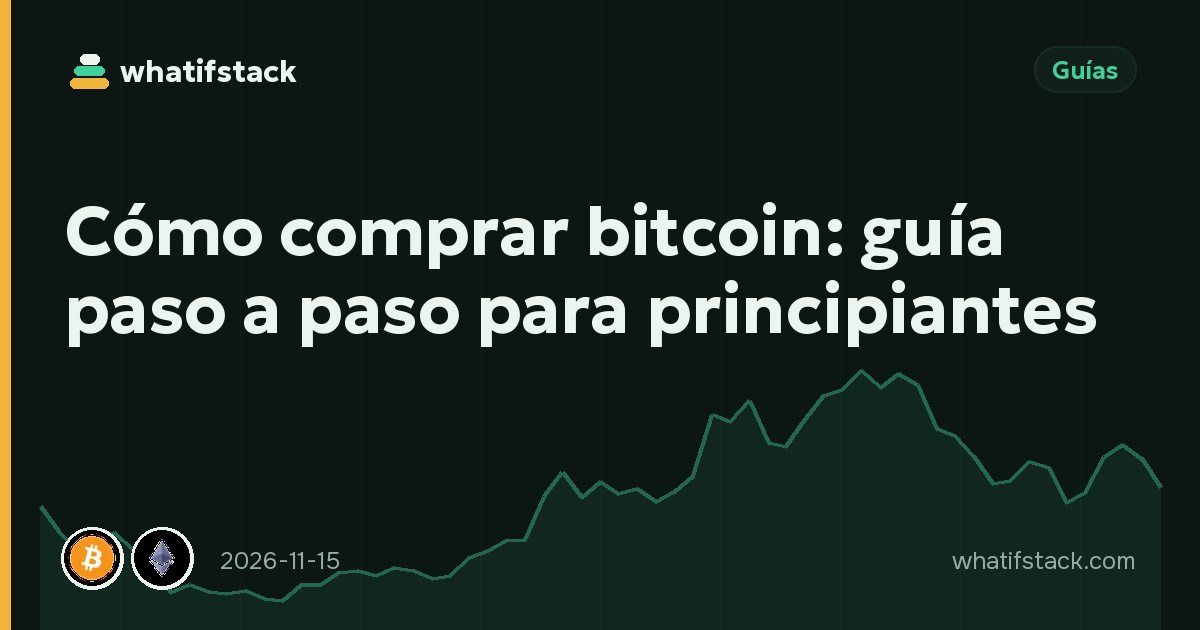
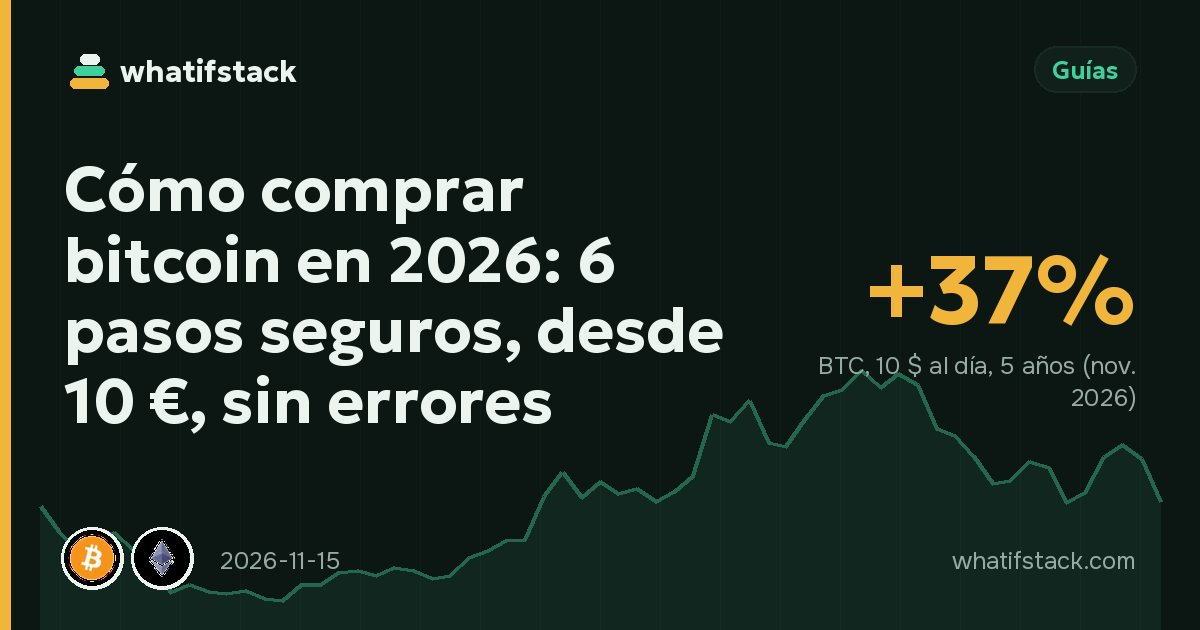
Search demand: improve how to buy bitcoin (es, fr, pt)

Changed region(s): [[0.0308, 0.2413, 0.9558, 0.6937], [0.9558, 0.754, 0.9867, 0.7841]]

diff --git a/content/blog/fr/how-to-buy-bitcoin.md b/content/blog/fr/how-to-buy-bitcoin.md
@@ -1,13 +1,20 @@
 ---
-title: Comment acheter du Bitcoin : guide étape par étape pour débutants
-description: Comment acheter du Bitcoin en 6 étapes : choisir une plateforme régulée, vérifier son compte, déposer, acheter, programmer des achats DCA et sécuriser ses BTC.
+title: Comment acheter du Bitcoin en 2026 : 6 étapes sûres, dès 10 € (débutant)
+description: Comment acheter du Bitcoin en 2026 : plateforme agréée MiCA, vérification, dépôt, achat dès 10 €, achats programmés et sécurité. Guide débutant.
 date: 2026-11-15
 category: guides
 assets: btc, eth
+stat: +37 %
+stat_label: BTC, 10 $ par jour, 5 ans (nov. 2026)
 ---
-**Comment acheter du Bitcoin ?** Aujourd'hui, cela ne prend pas beaucoup plus de temps que d'ouvrir une appli bancaire. Le plus dur n'est pas le bouton « Acheter », mais de choisir un endroit sûr, de ne pas payer trop de frais et de ne pas paniquer la première fois que le cours chute de 20 %.
+**Comment acheter du Bitcoin ?** Ouvrez un compte sur une plateforme agréée dans votre pays, vérifiez votre identité, déposez des euros et achetez le montant que vous voulez : inutile d'acheter un bitcoin entier, on peut commencer avec environ 10 €. Le tout prend de 15 minutes à une journée ; l'essentiel est de choisir un endroit sûr, de payer peu de frais et de bien protéger vos BTC ensuite.
 
-Ce guide vous explique tout le processus avec des mots simples. Un bitcoin coûte en ce moment {{price:btc}}, mais vous n'avez pas besoin d'en acheter un entier : presque toutes les plateformes permettent d'acheter une petite fraction, souvent dès 10 €.
+Un bitcoin coûte en ce moment {{price:btc}}. Voici les 6 étapes pour acheter des bitcoins quand on est débutant, combien cela coûte vraiment, où acheter du BTC en France sans se faire arnaquer, et ce qu'a donné un petit achat chaque jour.
+
+> **À retenir**
+> - Pour acheter du Bitcoin, il suffit d'une plateforme agréée, d'une pièce d'identité et d'environ 10 € : on achète des fractions de BTC (jusqu'à 8 décimales).
+> - Depuis juillet 2026, seuls les prestataires agréés MiCA (PSCA) peuvent servir les clients dans l'UE ; en France, c'est l'AMF qui publie les listes.
+> - 10 $ par jour en Bitcoin pendant 5 ans : **{{dca:btc:5}}** pour **{{dcainv:5}}** investis ({{dcaroi:btc:5}}), avec des baisses de plus de 50 % en route.
 
 ## Étape 1. Choisir une plateforme régulée dans votre pays
 
@@ -81,6 +88,24 @@ Ces règles de base évitent la plupart des pertes :
 
 « Not your keys, not your coins » (pas vos clés, pas vos bitcoins), dit-on souvent : si une plateforme fait faillite, les coins qui y sont stockés peuvent être bloqués. L'auto-conservation supprime ce risque mais en ajoute un autre — si vous perdez la phrase de récupération, personne ne peut restaurer l'accès.
 
+## Ce que cela signifie si vous achetez régulièrement
+
+Acheter le même montant chaque jour, semaine ou mois lisse le prix d'entrée, mais ne supprime pas le risque. Avec 10 $ par jour en Bitcoin, tout dépend de la durée :
+
+- **1 an :** {{dca:btc:1}} pour {{dcainv:1}} investis ({{dcaroi:btc:1}}).
+- **3 ans :** {{dcaroi:btc:3}}.
+- **5 ans :** {{dca:btc:5}} pour {{dcainv:5}} investis ({{dcaroi:btc:5}}).
+
+Sur une courte période, un plan régulier peut rester dans le rouge pendant des mois ; sur longue période, l'historique a été meilleur, mais le passé ne garantit rien. Beaucoup d'acheteurs réguliers fixent un montant qui ne les gêne pas et le maintiennent aussi pendant les baisses.
+
+## Combien coûte un bitcoin (et une fraction de bitcoin)
+
+Un bitcoin entier vaut {{price:btc}}, mais il se divise en 100 millions d'unités (les satoshis) : avec 10 €, vous achetez une petite fraction de BTC. Au prix s'ajoutent les frais : commission de transaction (souvent 0,1 à 0,5 % en mode « spot »), spread de l'écran simple « Acheter » et, par carte, 1 à 4 % de plus. Pour de petits achats fréquents, le virement SEPA revient généralement moins cher. Convertissez n'importe quel montant avec notre [convertisseur BTC–EUR]({lang}/converter/btc-eur/).
+
+## Où acheter du Bitcoin en France sans se faire arnaquer
+
+Avant d'ouvrir un compte, vérifiez que la plateforme figure sur les listes de l'AMF (prestataires agréés MiCA) et pas sur sa liste noire des sites non autorisés. Une plateforme agréée dans un autre pays de l'UE peut opérer en France grâce au passeport européen. Méfiez-vous de quiconque vous contacte en premier pour « vous aider à investir », des rendements « garantis » et des sites qui demandent de « payer des frais » pour débloquer un retrait : ce sont des arnaques classiques, détaillées dans notre guide [éviter les arnaques crypto]({lang}/blog/how-to-avoid-crypto-scams/). Pour comparer les plateformes, consultez notre [classement des plateformes crypto]({lang}/crypto-exchanges/).
+
 ## Impôts et justificatifs
 
 Dans de nombreux pays, vendre ou échanger du Bitcoin est un événement imposable. En France, par exemple, les plus-values sur crypto-actifs se déclarent chaque année. Téléchargez votre historique de transactions une fois par an et consultez les règles de votre administration fiscale. Garder vos justificatifs dès le premier jour vous évitera bien des soucis.
@@ -110,8 +135,19 @@ Les plateformes régulées doivent vérifier votre identité selon la loi. Celle
 
 Personne ne peut prédire les prix à court terme. C'est pourquoi beaucoup de débutants préfèrent des achats réguliers d'un montant fixe (DCA) plutôt que d'essayer de deviner le bon moment.
 
+## Suivre tout cela sur WhatIfStack
+
+- Suivez le cours du Bitcoin en direct, son graphique et le calculateur de rendement sur la [page Bitcoin]({lang}/btc/) : testez n'importe quel montant et durée.
+- Ajoutez le BTC à votre liste de suivi ou notez vos achats dans [Mon WhatIfStack]({lang}/me/) : gratuit, sans inscription, enregistré dans votre navigateur.
+- Comparez le Bitcoin à l'or, au S&P 500 ou à l'Ethereum avec [Comparer]({lang}/compare/).
+- Choisissez une plateforme grâce au [classement des plateformes crypto]({lang}/crypto-exchanges/) (volumes, paires, preuve de réserves).
+- Suivez ce qui fait bouger le marché dans nos [actualités]({lang}/news/).
+
+Ajoutez whatifstack.com à vos favoris (Ctrl+D, ou « Ajouter à l'écran d'accueil » sur mobile) et suivez [notre chaîne Telegram](https://t.me/WhatIfStack) pour le point marché quotidien.
+
 ## Sources
 
+- [AMF — Investir en crypto-monnaies : quel professionnel choisir ?](https://www.amf-france.org/fr/espace-epargnants/proteger-son-epargne/crypto-actifs-bitcoin-etc/investir-en-crypto-monnaies-quel-professionnel-choisir)
 - [ESMA — Markets in Crypto-Assets Regulation (MiCA)](https://www.esma.europa.eu/esmas-activities/digital-finance-and-innovation/markets-crypto-assets-regulation-mica)
 - [FCA — Cryptoassets: our work](https://www.fca.org.uk/firms/cryptoassets)
 - [Investor.gov — Crypto asset investing alerts](https://www.investor.gov/introduction-investing/general-resources/news-alerts/alerts-bulletins/investor-alerts/investor-alert-watch-out-fraudulent-digital-asset-and-crypto-trading-websites)

diff --git a/content/blog/es/how-to-buy-bitcoin.md b/content/blog/es/how-to-buy-bitcoin.md
@@ -1,13 +1,20 @@
 ---
-title: Cómo comprar bitcoin: guía paso a paso para principiantes
-description: Cómo comprar bitcoin de forma segura en 6 pasos: elige un exchange regulado, verifica tu cuenta, deposita, compra, programa compras DCA y protege tus monedas.
+title: Cómo comprar bitcoin en 2026: 6 pasos seguros, desde 10 €, sin errores
+description: Cómo comprar bitcoin paso a paso en 2026: exchange regulado, verificación, depósito, compra desde 10 €, compras periódicas y seguridad.
 date: 2026-11-15
 category: guides
 assets: btc, eth
+stat: +37%
+stat_label: BTC, 10 $ al día, 5 años (nov. 2026)
 ---
-Hoy, **comprar bitcoin** lleva más o menos lo mismo que abrir la app del banco. Lo difícil no es pulsar el botón: es elegir un sitio seguro, no pagar comisiones de más y no entrar en pánico la primera vez que el precio cae un 20%.
+**¿Cómo comprar bitcoin?** Abre una cuenta en un exchange regulado en tu país, verifica tu identidad, deposita euros (o tu moneda local) y compra la cantidad que quieras: no hace falta un bitcoin entero, se puede empezar con unos 10 €. Todo lleva entre 15 minutos y un día; lo que de verdad importa es elegir un sitio seguro, pagar pocas comisiones y proteger tus monedas después.
 
-En esta guía te explicamos cómo comprar bitcoin paso a paso y en lenguaje sencillo. Ahora mismo un bitcoin cuesta {{price:btc}}, pero no necesitas comprar una moneda entera: casi todos los exchanges te dejan comprar una pequeña parte, a menudo desde 10 € o 10 $.
+Ahora mismo un bitcoin cuesta {{price:btc}}. Abajo tienes los 6 pasos para comprar bitcoins, cuánto cuesta realmente, cómo hacerlo de forma segura y qué le pasó a quien compró un poco cada día.
+
+> **Claves**
+> - Para comprar bitcoin solo necesitas un exchange regulado, tu DNI y unos 10 €: compras fracciones de BTC con hasta 8 decimales.
+> - Desde julio de 2026, en la UE solo pueden operar proveedores con licencia MiCA; en España la autoridad es la CNMV.
+> - 10 $ al día en bitcoin durante 5 años: **{{dca:btc:5}}** a partir de **{{dcainv:5}}** ({{dcaroi:btc:5}}), con caídas de más del 50% por el camino.
 
 ## Paso 1. Elige un exchange regulado en tu país
 
@@ -81,6 +88,28 @@ Lo básico de seguridad que evita la mayoría de pérdidas:
 
 "Not your keys, not your coins" ("si no son tus claves, no son tus monedas") es un dicho popular: si un exchange quiebra, las monedas que tengas allí pueden quedar congeladas. La autocustodia elimina ese riesgo pero añade otro: si pierdes la frase de recuperación, nadie puede devolverte el acceso.
 
+## Qué significa si compras de forma regular
+
+Comprar la misma cantidad cada día, semana o mes reparte el precio de entrada, pero no elimina el riesgo. Con 10 $ al día en bitcoin, el resultado depende mucho del plazo:
+
+- **1 año:** {{dca:btc:1}} a partir de {{dcainv:1}} ({{dcaroi:btc:1}}).
+- **3 años:** {{dcaroi:btc:3}}.
+- **5 años:** {{dca:btc:5}} a partir de {{dcainv:5}} ({{dcaroi:btc:5}}).
+
+Es decir: en plazos cortos un plan periódico puede estar en pérdidas durante meses, y en plazos largos el historial ha sido mejor, pero el pasado no es una promesa. Muchos compradores regulares fijan una cantidad que no les duela y la mantienen también en las caídas.
+
+## Cuánto cuesta comprar 1 bitcoin (y una fracción)
+
+Un bitcoin entero cuesta {{price:btc}}, pero se divide en 100 millones de unidades (satoshis), así que con 10 € compras una pequeña fracción de BTC. Al precio hay que sumar el coste de compra: la comisión de trading (en el modo *spot* suele rondar el 0,1–0,5%), el *spread* de la pantalla sencilla de "Comprar" y, si pagas con tarjeta, un 1–4% extra. Para compras pequeñas y frecuentes, una transferencia SEPA o en tu moneda local suele salir más barata. Puedes convertir cualquier cantidad con nuestro [conversor BTC–EUR]({lang}/converter/btc-eur/).
+
+## Cómo comprar bitcoin de forma segura
+
+La mayoría de pérdidas no vienen del precio sino de estafas y descuidos. Cinco reglas: compra solo en plataformas que aparezcan en el registro del regulador (CNMV en España); nunca inviertas por consejo de alguien que te escribió primero; activa 2FA con app; no compartas jamás la frase de recuperación; y desconfía de rentabilidades "garantizadas". Si un exchange no te deja retirar y te pide "pagar impuestos" para liberar el dinero, es una estafa: lo explicamos en [cómo evitar estafas cripto]({lang}/blog/how-to-avoid-crypto-scams/).
+
+## Dónde comprar bitcoin en España y Latinoamérica
+
+En España, busca un proveedor con licencia MiCA (puede estar autorizado en otro país de la UE y operar aquí con pasaporte europeo) y compruébalo en el registro de la CNMV o de la ESMA. En México, Argentina, Colombia o Chile, las reglas cambian por país: revisa siempre la web del regulador local. En nuestra [página de exchanges]({lang}/exchanges/) y en el [ranking de exchanges cripto]({lang}/crypto-exchanges/) comparas comisiones, volumen y reservas.
+
 ## Impuestos y registros
 
 En muchos países, vender o intercambiar bitcoin tributa (en España, por ejemplo, las ganancias se declaran en el IRPF). Descarga una vez al año el historial de operaciones del exchange y consulta las reglas de tu agencia tributaria. Llevar registros desde el primer día te ahorra muchos dolores de cabeza.
@@ -110,8 +139,19 @@ Los exchanges regulados exigen verificar tu identidad por ley. Las plataformas q
 
 Nadie puede predecir el precio a corto plazo. Por eso muchos principiantes hacen compras periódicas y fijas (DCA) en lugar de intentar acertar el momento.
 
+## Cómo seguirlo en WhatIfStack
+
+- Mira el precio de bitcoin en vivo, el gráfico y la calculadora de rentabilidad en la [página de bitcoin]({lang}/btc/): prueba cualquier importe y plazo.
+- Añade BTC a tu lista de seguimiento o registra tus compras en [Mi WhatIfStack]({lang}/me/): gratis, sin registro y guardado en tu navegador.
+- Compara bitcoin con el oro, el S&P 500 o ethereum en [Comparar]({lang}/compare/).
+- Elige plataforma con el [ranking de exchanges cripto]({lang}/crypto-exchanges/) (volumen, pares y prueba de reservas).
+- Sigue lo que mueve el mercado en nuestras [noticias]({lang}/news/).
+
+Guarda whatifstack.com en favoritos (Ctrl+D, o «Añadir a pantalla de inicio» en el móvil) y sigue [nuestro canal de Telegram](https://t.me/WhatIfStack) para el resumen diario del mercado.
+
 ## Fuentes
 
+- [CNMV — Criptoactivos](https://www.cnmv.es/portal/criptoactivos)
 - [ESMA — Reglamento de Mercados de Criptoactivos (MiCA)](https://www.esma.europa.eu/esmas-activities/digital-finance-and-innovation/markets-crypto-assets-regulation-mica)
 - [FCA — Cryptoassets: our work](https://www.fca.org.uk/firms/cryptoassets)
 - [Investor.gov — Alertas sobre inversión en criptoactivos](https://www.investor.gov/introduction-investing/general-resources/news-alerts/alerts-bulletins/investor-alerts/investor-alert-watch-out-fraudulent-digital-asset-and-crypto-trading-websites)

diff --git a/content/blog/pt/how-to-buy-bitcoin.md b/content/blog/pt/how-to-buy-bitcoin.md
@@ -1,13 +1,20 @@
 ---
-title: Como comprar bitcoin: guia passo a passo para iniciantes
-description: Como comprar bitcoin com segurança em 6 passos: escolha uma corretora regulada, verifique a conta, deposite, compre, programe compras DCA e proteja as moedas.
+title: Como comprar bitcoin em 2026: 6 passos seguros, a partir de R$ 50
+description: Como comprar bitcoin passo a passo em 2026: corretora autorizada, verificação, Pix, compra a partir de R$ 50, compras recorrentes e segurança.
 date: 2026-11-15
 category: guides
 assets: btc, eth
+stat: +37%
+stat_label: BTC, US$ 10 por dia, 5 anos (nov. 2026)
 ---
-Hoje, **comprar bitcoin** leva mais ou menos o mesmo tempo que abrir o app do banco. A parte difícil não é apertar o botão: é escolher um lugar seguro, não pagar taxas demais e não entrar em pânico na primeira vez que o preço cair 20%.
+**Como comprar bitcoin?** Abra conta numa corretora autorizada no seu país, verifique a identidade, deposite reais por Pix (ou euros por transferência) e compre o valor que quiser: não precisa de um bitcoin inteiro, dá para começar com cerca de R$ 50 ou 10 €. O processo leva de 15 minutos a um dia; o que importa mesmo é escolher um lugar seguro, pagar pouca taxa e proteger as moedas depois.
 
-Este guia mostra como comprar bitcoin passo a passo, em linguagem simples. Agora um bitcoin custa {{price:btc}}, mas você não precisa comprar uma moeda inteira: quase todas as corretoras deixam comprar um pedacinho, muitas vezes a partir de R$ 50 ou US$ 10.
+Agora um bitcoin custa {{price:btc}}. Abaixo estão os 6 passos, quanto custa de verdade, a melhor forma de comprar bitcoin com segurança no Brasil e em Portugal, e o que aconteceu com quem comprou um pouco todo dia.
+
+> **Principais pontos**
+> - Para comprar bitcoin basta uma corretora autorizada, um documento e cerca de R$ 50: você compra frações de BTC (até 8 casas decimais).
+> - No Brasil, as prestadoras de serviços de ativos virtuais precisam de autorização do Banco Central; em Portugal, vale a licença europeia MiCA.
+> - US$ 10 por dia em bitcoin durante 5 anos: **{{dca:btc:5}}** a partir de **{{dcainv:5}}** investidos ({{dcaroi:btc:5}}), com quedas de mais de 50% no caminho.
 
 ## Passo 1. Escolha uma corretora regulada no seu país
 
@@ -81,6 +88,32 @@ O básico de segurança que evita a maioria das perdas:
 
 "Not your keys, not your coins" ("sem as chaves, as moedas não são suas") é um ditado popular: se uma corretora quebrar, as moedas guardadas lá podem ser congeladas. A autocustódia elimina esse risco, mas cria outro: se você perder a frase de recuperação, ninguém consegue devolver o acesso.
 
+## O que isso significa se você compra regularmente
+
+Comprar o mesmo valor todo dia, semana ou mês dilui o preço de entrada, mas não elimina o risco. Com US$ 10 por dia em bitcoin, o resultado depende muito do prazo:
+
+- **1 ano:** {{dca:btc:1}} a partir de {{dcainv:1}} ({{dcaroi:btc:1}}).
+- **3 anos:** {{dcaroi:btc:3}}.
+- **5 anos:** {{dca:btc:5}} a partir de {{dcainv:5}} ({{dcaroi:btc:5}}).
+
+Ou seja: em prazos curtos um plano recorrente pode ficar no vermelho por meses; em prazos longos o histórico foi melhor, mas passado não é promessa. Muitos investidores recorrentes escolhem um valor que não faz falta e mantêm o plano também nas quedas.
+
+## Quanto custa comprar 1 bitcoin (e uma fração)
+
+Um bitcoin inteiro custa {{price:btc}}, mas ele se divide em 100 milhões de unidades (satoshis), então com R$ 50 você compra uma pequena fração de BTC. Ao preço somam-se os custos: a taxa de negociação (no modo *spot* costuma ficar entre 0,1% e 0,5%), o *spread* da tela simples de "Comprar" e, no cartão, mais 1–4%. Para compras pequenas e frequentes, Pix ou transferência costumam sair mais baratos. Converta qualquer valor no nosso [conversor BTC–BRL]({lang}/converter/btc-brl/).
+
+## Qual a melhor forma de comprar bitcoin com segurança
+
+A maioria das perdas não vem do preço, e sim de golpes e descuidos. Cinco regras: compre só em corretoras autorizadas pelo regulador; nunca invista por indicação de alguém que chamou você primeiro; ative 2FA por aplicativo; jamais compartilhe a frase de recuperação; e desconfie de rendimento "garantido". Se uma plataforma não deixa sacar e pede para "pagar uma taxa" para liberar o dinheiro, é golpe — explicamos no guia [como evitar golpes com cripto]({lang}/blog/how-to-avoid-crypto-scams/).
+
+## Como comprar bitcoin no Brasil e em Portugal
+
+**No Brasil**, a Lei 14.478/2022 colocou as corretoras de cripto sob a supervisão do Banco Central, que publicou as regras de autorização das prestadoras de serviços de ativos virtuais; confira no site do BC se a empresa está autorizada. O caminho mais comum é depositar por Pix e comprar na própria corretora. **Em Portugal**, procure uma empresa com licença MiCA (pode estar autorizada noutro país da UE) e deposite por transferência SEPA; ganhos com criptoativos detidos menos de 365 dias são tributados a 28%. Compare plataformas no nosso [ranking de corretoras cripto]({lang}/crypto-exchanges/).
+
+## Como comprar criptomoedas além do bitcoin
+
+O processo é o mesmo para ether e outras criptomoedas: mesma corretora, mesma conta, outro par de negociação. Quanto menor e mais nova a moeda, maior o risco — muitos iniciantes começam pelo bitcoin e pelo [ethereum]({lang}/eth/) antes de qualquer outra coisa.
+
 ## Impostos e registros
 
 Em muitos países, vender ou trocar bitcoin gera imposto. No Brasil, por exemplo, há regras da Receita Federal para declarar criptoativos e ganhos. Baixe o histórico de operações da corretora uma vez por ano e confira as regras do fisco do seu país. Manter registros desde o primeiro dia evita muita dor de cabeça.
@@ -109,6 +142,16 @@ Corretoras reguladas exigem verificação de identidade por lei. Plataformas que
 ### Qual é o melhor momento para comprar bitcoin?
 
 Ninguém consegue prever o preço no curto prazo. Por isso muitos iniciantes fazem compras regulares de valor fixo (DCA) em vez de tentar acertar o momento.
+
+## Como acompanhar no WhatIfStack
+
+- Veja o preço do bitcoin ao vivo, o gráfico e a calculadora de rentabilidade na [página do bitcoin]({lang}/btc/): teste qualquer valor e prazo.
+- Adicione BTC à sua lista de acompanhamento ou registre suas compras em [Meu WhatIfStack]({lang}/me/): grátis, sem cadastro, salvo no seu navegador.
+- Compare bitcoin com ouro, S&P 500 ou ethereum em [Comparar]({lang}/compare/).
+- Escolha a plataforma com o [ranking de corretoras cripto]({lang}/crypto-exchanges/) (volume, pares, prova de reservas).
+- Acompanhe o que move o mercado nas nossas [notícias]({lang}/news/).
+
+Salve whatifstack.com nos favoritos (Ctrl+D, ou «Adicionar à tela inicial» no celular) e siga [nosso canal no Telegram](https://t.me/WhatIfStack) para o resumo diário do mercado.
 
 ## Fontes
 

diff --git a/social/search-demand.md b/social/search-demand.md
@@ -19,6 +19,7 @@ date | topic | queries (impr / pos) | languages | slugs | status
 2026-11-21 | Best Japanese stocks / Japan-Aktien / Japan-ETF | japan aktien 6/52.7; beste japanische aktien 5/61.8; japanische aktien 2/74; etf japan empfehlung 1/4 (GSC 28 d, read 2026-11-21) | en, de, ja | best-japanese-stocks | published
 2026-11-21 | German stocks / the German stock exchange (DAX, Xetra) | duitse aandelen 4/12.0; duitse beurs 3/50.0; dax 40 empresas 1/76; GSC 28 d read 2026-11-21 16:20 | en, de, nl | german-stocks | published
 2026-11-21 | regional: 한국 대형주 24종목 하루 10달러 5년 (+79.7%) — ko had no regional yet; South Korea 47 impr / pos 21 in Countries; südkoreanische aktien 1/64 | ko | hanguk-daehyeongju-haru-10-dallo-5nyeon | published, regional
+2026-11-22 | improve (Sunday): how to buy bitcoin — es/fr/pt pages (GSC 28 d pages: es 64 impr/30.5, fr 50/37.1, pt 33/31.0) | como comprar bitcoin 19/32.3; comprar bitcoin 17/24.3; acheter bitcoin 11/30.4; como comprar bitcoins 10/20.1; como comprar criptomoedas 8/29.9; comment acheter des bitcoins 7/44.0; comment acheter bitcoin 6/46.7; comment acheter du bitcoin 5/39.4; melhor forma de comprar bitcoin 3/39.7; acheter du btc 3/23.0; como comprar bitcoins de forma segura 1/12; como comprar bitcoin em portugal 1/12 | es, fr, pt | how-to-buy-bitcoin (exact query in title/H1/lead, answer in 2 sentences, key takeaways, «buy regularly» 1/3/5 y live, new H2: cost of 1 BTC, buying safely, where to buy (ES/LatAm; France/AMF; Brazil/Portugal), cryptos beyond BTC (pt), Track-it block, CNMV/AMF sources; new covers) | done (ja 111/49.4 next candidate when it enters 5–40)
 
 ## Snapshots
 ### 2026-11-20 (last 28 days: 7 clicks, 2.5k impressions, avg pos 23.2; 514 queries)
